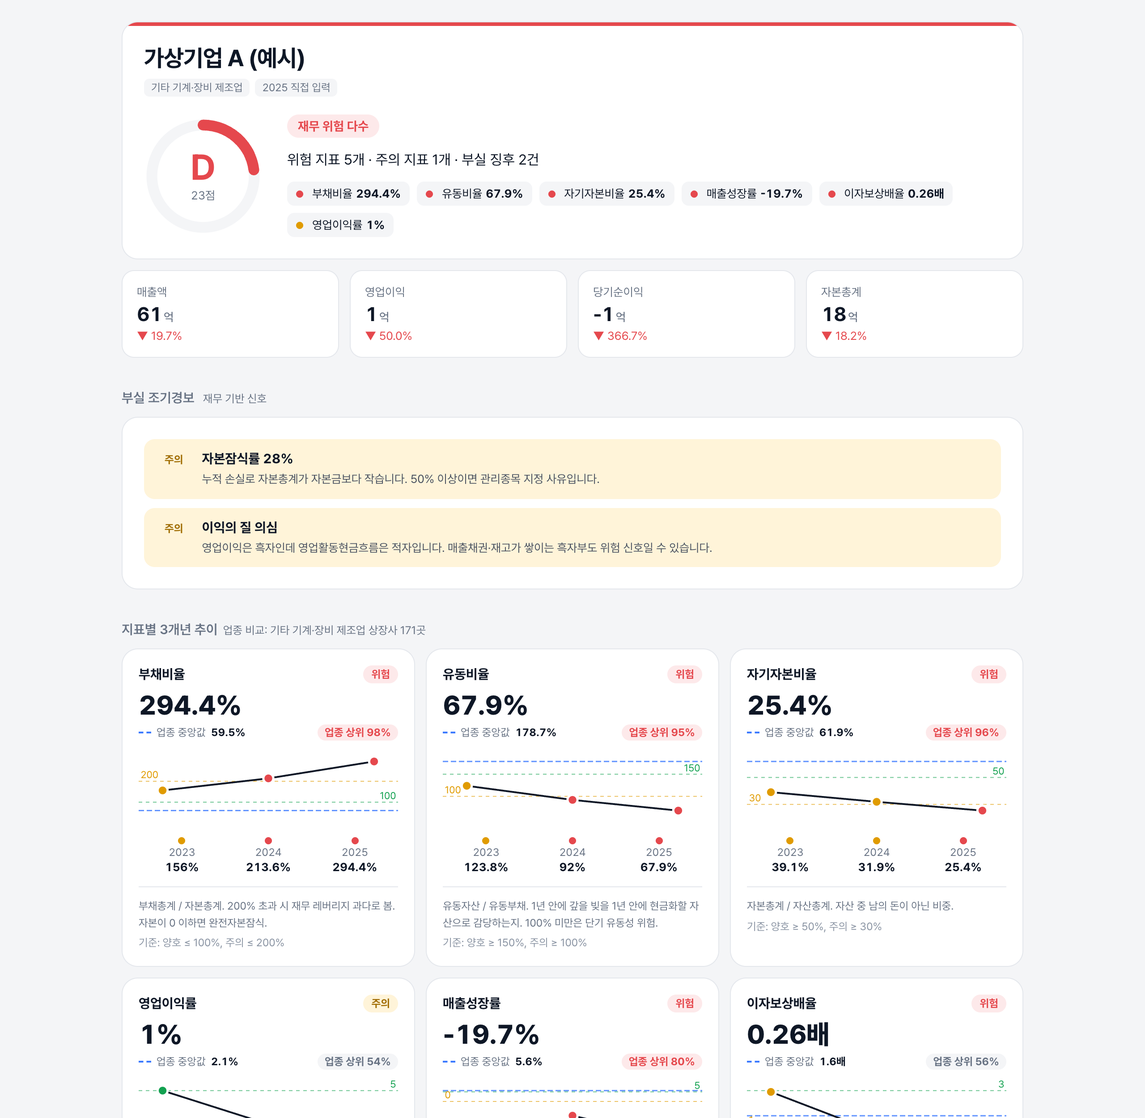
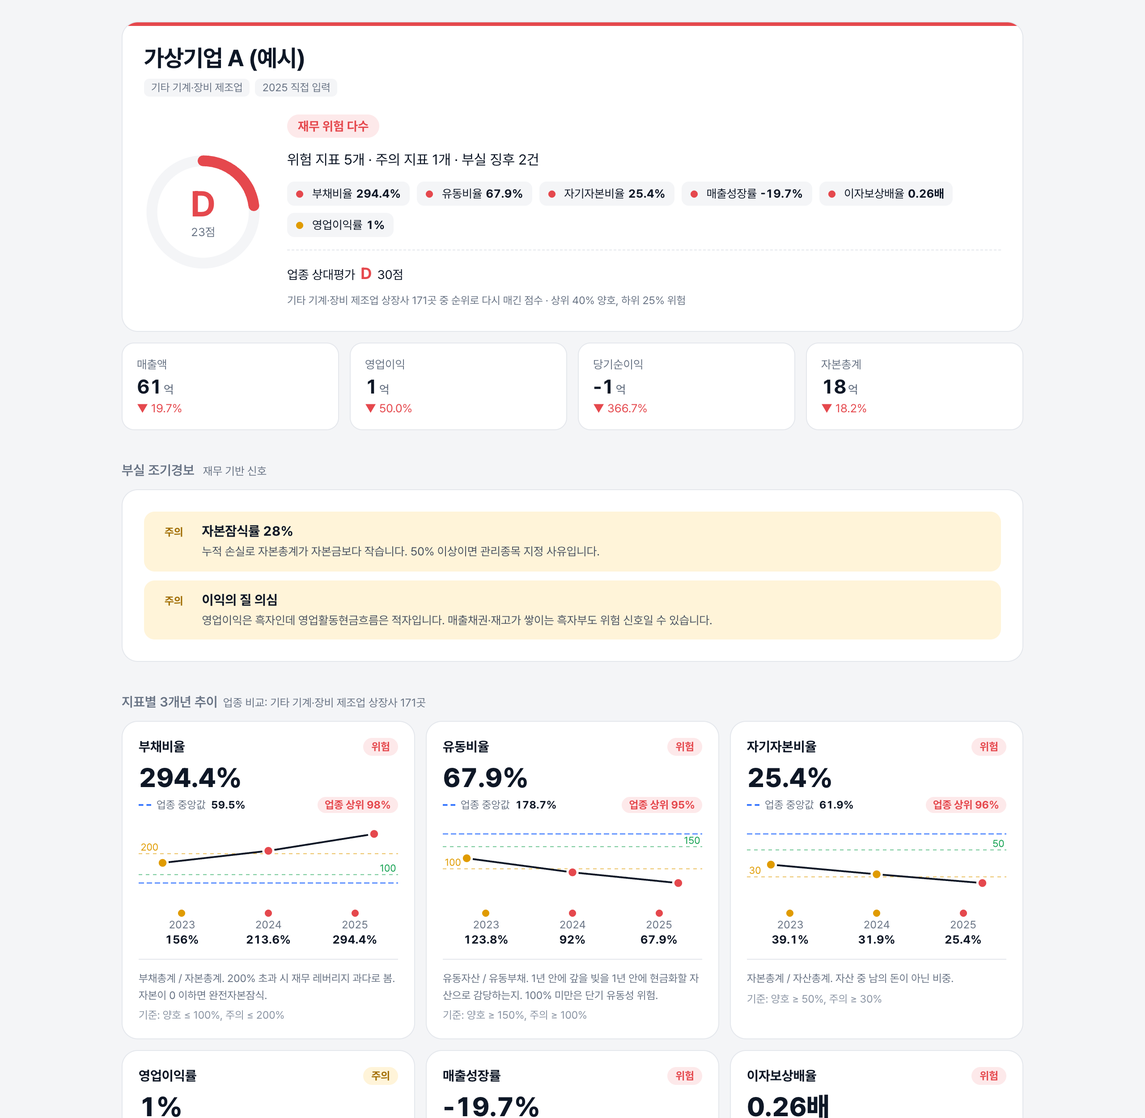
feat: 5-year trend, industry-relative grade, print/PDF report
Join the report from 3 years earlier to show 5 fiscal years; zombie check
still uses the latest 3. Re-grade ratios by industry rank (top 40% good,
bottom 25% bad) for industries with 10+ listed peers. Add print styles
and a PDF button.

diff --git a/app/page.tsx b/app/page.tsx
@@ -1,7 +1,7 @@
 "use client";
 
 import { useEffect, useMemo, useState } from "react";
-import { ratios, isZombie, score, type Accounts, type Ratio, type Level } from "@/lib/ratios";
+import { ratios, isZombie, score, peerLevel, type Accounts, type Ratio, type Level } from "@/lib/ratios";
 import { signals, type Audit, type HolderChange, type Signal } from "@/lib/signals";
 import { KSIC } from "@/lib/ksic";
 
@@ -22,7 +22,11 @@ const fmt = (v: number | null, unit: string) =>
 const eok = (v: number | null) => (v === null ? "–" : Math.round(v / 1e8).toLocaleString("ko-KR"));
 const money = (v: number | null): [string, string] =>
   v === null ? ["–", ""] : Math.abs(v) >= 1e12 ? [(v / 1e12).toLocaleString("ko-KR", { maximumFractionDigits: 1 }), "조"] : [eok(v), "억"];
-const yoy = (s: (number | null)[]) => (s[1] === null || s[2] === null || s[1] === 0 ? null : ((s[2] - s[1]) / Math.abs(s[1])) * 100);
+const last = <T,>(s: T[]) => s[s.length - 1];
+const yoy = (s: (number | null)[]) => {
+  const [p, c] = [s[s.length - 2] ?? null, last(s)];
+  return p === null || c === null || p === 0 ? null : ((c - p) / Math.abs(p)) * 100;
+};
 
 // Peer stats store debt-free ICR as 9999 (JSON has no Infinity); match that here.
 const CAP = 9999;
@@ -104,7 +108,7 @@ export default function Page() {
           {home && (
             <>
               <p className="eyebrow">기업 재무건전성 · 부실 조기경보</p>
-              <h1>재무제표 속 위험 신호,<br />3년 추이로 한눈에.</h1>
+              <h1>재무제표 속 위험 신호,<br />5년 추이로 한눈에.</h1>
               <p className="lead">
                 6개 핵심 비율을 <b>업종 평균</b>과 비교하고, 감사의견·자본잠식·최대주주 변경 같은 <b>부실 징후</b>와 <b>한계기업</b> 여부를 함께 점검합니다.
               </p>
@@ -187,9 +191,15 @@ function Report({ r, peers }: { r: Result; peers: Peers | null }) {
   const sig = signals(r.accounts, r.audit, r.holders, r.year);
   const ksic = r.ksic ?? (r.code ? peers?.byCorp[r.code] : undefined);
   const group = ksic ? peers?.ind[ksic] : undefined;
-  const years = [r.year - 2, r.year - 1, r.year];
-  const flagged = rs.filter((x) => x.levels[2] === "bad");
-  const warned = rs.filter((x) => x.levels[2] === "warn");
+  const n = r.accounts.assets.length;
+  const L = n - 1;
+  const years = r.accounts.assets.map((_, i) => r.year - L + i);
+  const flagged = rs.filter((x) => x.levels[L] === "bad");
+  const warned = rs.filter((x) => x.levels[L] === "warn");
+  // Same score, but each ratio graded by its rank in the industry instead of fixed cut-offs.
+  // Missing rank (e.g. 자본잠식 has no debt ratio) keeps the absolute level.
+  const tops = rs.map((x) => (group ? topPct(group.r[x.key] ?? [], x.values[L], x.higher) : null));
+  const peerSc = group && group.n >= 10 ? score(rs, rs.map((x, i) => (tops[i] === null ? x.levels[L] : peerLevel(tops[i]!)))) : null;
   const badSig = sig.filter((s) => s.level === "bad").length;
   const level: Level = zombie || flagged.length >= 2 || badSig ? "bad" : flagged.length || warned.length || sig.length ? "warn" : "good";
   const title = zombie ? "한계기업 신호" : badSig ? "부실 징후 감지" : level === "bad" ? "재무 위험 다수" : level === "warn" ? "일부 주의 필요" : "재무 상태 양호";
@@ -217,9 +227,12 @@ function Report({ r, peers }: { r: Result; peers: Peers | null }) {
             </p>
           </div>
           {r.fs !== "MANUAL" && (
+            <span className="links">
+            <button className="print" onClick={() => print()}>PDF 저장</button>
             <a className="dart" href={`https://dart.fss.or.kr/dsab007/main.do?option=corp&textCrpNm=${encodeURIComponent(r.name)}`} target="_blank" rel="noreferrer">
               DART 원문 ↗
             </a>
+            </span>
           )}
         </div>
         <div className="body">
@@ -235,9 +248,15 @@ function Report({ r, peers }: { r: Result; peers: Peers | null }) {
             </p>
             <ul className="flags">
               {[...flagged, ...warned].map((x) => (
-                <li key={x.key}><i className={`dot ${x.levels[2]}`} />{x.label} <b>{show(x, 2)}</b></li>
+                <li key={x.key}><i className={`dot ${x.levels[L]}`} />{x.label} <b>{show(x, L)}</b></li>
               ))}
             </ul>
+            {peerSc && (
+              <p className="pgrade">
+                업종 상대평가 <b className={`g${peerSc.grade}`}>{peerSc.grade}</b> {peerSc.score}점
+                <small>{KSIC[ksic!] ?? ksic} 상장사 {group!.n}곳 중 순위로 다시 매긴 점수 · 상위 40% 양호, 하위 25% 위험</small>
+              </p>
+            )}
           </div>
         </div>
       </div>
@@ -248,7 +267,7 @@ function Report({ r, peers }: { r: Result; peers: Peers | null }) {
           return (
             <div key={k} className="kpi">
               <span>{k}</span>
-              <b>{money(v[2])[0]}<small>{money(v[2])[1]}</small></b>
+              <b>{money(last(v))[0]}<small>{money(last(v))[1]}</small></b>
               <em className={d === null ? "" : d >= 0 ? "up" : "down"}>{d === null ? "–" : `${d >= 0 ? "▲" : "▼"} ${Math.abs(d).toFixed(1)}%`}</em>
             </div>
           );
@@ -259,10 +278,10 @@ function Report({ r, peers }: { r: Result; peers: Peers | null }) {
       <Signals list={sig} audit={r.audit} manual={r.fs === "MANUAL"} />
 
       <h3 className="sec">
-        지표별 3개년 추이
+        지표별 {n}개년 추이
         {group && <small>업종 비교: {KSIC[ksic!] ?? ksic} 상장사 {group.n}곳</small>}
       </h3>
-      <div className="grid">{rs.map((x) => <RatioCard key={x.key} r={x} years={years} peer={group?.r[x.key]} />)}</div>
+      <div className="grid">{rs.map((x, i) => <RatioCard key={x.key} r={x} years={years} peer={group?.r[x.key]} top={tops[i]} />)}</div>
 
       <h3 className="sec">주요 계정 <small>단위: 억원</small></h3>
       <div className="card flush">
@@ -308,7 +327,7 @@ function Gauge({ s, grade, level }: { s: number | null; grade: string; level: Le
   );
 }
 
-// 3-point line with threshold guides (+ industry median); the y-domain includes guides so they stay visible.
+// N-point line with threshold guides (+ industry median); the y-domain includes guides so they stay visible.
 function Spark({ r, med }: { r: Ratio; med: number | null }) {
   const W = 260, H = 84, P = 10;
   const vals = r.values.map((v) => (v === null ? null : Number.isFinite(v) ? v : null));
@@ -318,7 +337,7 @@ function Spark({ r, med }: { r: Ratio; med: number | null }) {
   let lo = Math.min(...nums), hi = Math.max(...nums);
   const pad = (hi - lo || 1) * 0.15; lo -= pad; hi += pad;
   const y = (v: number) => P + (1 - (v - lo) / (hi - lo)) * (H - 2 * P);
-  const x = (i: number) => 24 + i * ((W - 48) / 2);
+  const x = (i: number) => 24 + i * ((W - 48) / Math.max(1, r.values.length - 1));
   const pts = r.values.map((v, i) => (v === null ? null : [x(i), v === Infinity ? P : y(v)] as const));
   const line = pts.filter(Boolean).map((p) => p!.join(",")).join(" ");
   return (
@@ -338,16 +357,16 @@ function Spark({ r, med }: { r: Ratio; med: number | null }) {
 // Debt ratio is undefined when equity <= 0; say why instead of a dash.
 const show = (r: Ratio, i: number) => (r.key === "debt" && r.values[i] === null && r.levels[i] === "bad" ? "자본잠식" : fmt(r.values[i], r.unit));
 
-function RatioCard({ r, years, peer }: { r: Ratio; years: number[]; peer?: number[] }) {
+function RatioCard({ r, years, peer, top }: { r: Ratio; years: number[]; peer?: number[]; top: number | null }) {
   const med = peer ? median(peer) : null;
-  const top = peer ? topPct(peer, r.values[2], r.higher) : null;
+  const L = r.values.length - 1;
   return (
     <article className="ratio">
       <header>
         <h4>{r.label}</h4>
-        <span className={`pill sm ${r.levels[2]}`}>{LABEL[r.levels[2]]}</span>
+        <span className={`pill sm ${r.levels[L]}`}>{LABEL[r.levels[L]]}</span>
       </header>
-      <div className="big">{show(r, 2)}</div>
+      <div className="big">{show(r, L)}</div>
       {med !== null && (
         <p className="peer">
           <i />업종 중앙값 <b>{fmt(med >= CAP ? Infinity : med, r.unit)}</b>
@@ -355,7 +374,7 @@ function RatioCard({ r, years, peer }: { r: Ratio; years: number[]; peer?: numbe
         </p>
       )}
       <Spark r={r} med={med} />
-      <div className="years">{years.map((y, i) => <span key={y}><i className={`dot ${r.levels[i]}`} />{y}<b>{show(r, i)}</b></span>)}</div>
+      <div className="years" style={{ gridTemplateColumns: `repeat(${years.length}, 1fr)` }}>{years.map((y, i) => <span key={y}><i className={`dot ${r.levels[i]}`} />{y}<b>{show(r, i)}</b></span>)}</div>
       <p className="hint">{r.hint} <em>기준: 양호 {r.higher ? "≥" : "≤"} {r.good}{r.unit}, 주의 {r.higher ? "≥" : "≤"} {r.warn}{r.unit}</em></p>
     </article>
   );
@@ -478,8 +497,8 @@ function FeaturedLists({ f, corps, onPick }: { f: Featured; corps: Corp[]; onPic
 function HowTo() {
   const steps = [
     ["01", "공시 수집", "DART Open API로 최근 사업보고서의 재무제표, 감사의견, 최대주주 변동 내역을 가져옵니다."],
-    ["02", "비율 산출", "안정성·유동성·수익성·성장성·이자상환능력 6개 지표를 3개년으로 계산합니다."],
-    ["03", "업종 비교", "상장사 전체를 KSIC 업종별로 묶어 중앙값과 업종 내 순위를 보여줍니다."],
+    ["02", "비율 산출", "안정성·유동성·수익성·성장성·이자상환능력 6개 지표를 최대 5개년으로 계산합니다."],
+    ["03", "업종 비교", "상장사 전체를 KSIC 업종별로 묶어 중앙값, 업종 내 순위, 업종 상대평가 등급을 보여줍니다."],
     ["04", "부실 조기경보", "비적정 감사의견, 자본잠식, 연속 영업손실, 흑자부도 신호, 한계기업을 표시합니다."],
   ];
   return (

diff --git a/lib/ratios.ts b/lib/ratios.ts
@@ -9,7 +9,7 @@ export type Row = {
   bfefrmtrm_amount?: string;
 };
 
-// Index 0 = oldest year, 2 = latest year.
+// Index 0 = oldest year, last = latest year. One report gives 3 years; the API route joins two reports for 5.
 export type Series = (number | null)[];
 
 const num = (s?: string): number | null => {
@@ -66,7 +66,7 @@ function grade(v: number | null, good: number, warn: number, higherIsBetter = tr
 }
 
 export function ratios(a: Accounts): Ratio[] {
-  const y = [0, 1, 2];
+  const y = a.assets.map((_, i) => i);
   const debt = y.map((i) => (a.equity[i] !== null && a.equity[i]! <= 0 ? null : div(a.liabilities[i], a.equity[i])));
   const current = y.map((i) => div(a.currentAssets[i], a.currentLiabilities[i]));
   const equityRatio = y.map((i) => div(a.equity[i], a.assets[i]));
@@ -92,9 +92,9 @@ export function ratios(a: Accounts): Ratio[] {
 
 const sub = (a: number | null, b: number | null) => (a === null || b === null ? null : a - b);
 
-// 한국은행 기준 한계기업: 이자보상배율 3년 연속 1 미만.
+// 한국은행 기준 한계기업: 이자보상배율 3년 연속 1 미만 (최근 3년).
 export function isZombie(rs: Ratio[]): boolean | null {
-  const icr = rs.find((r) => r.key === "icr")!.values;
+  const icr = rs.find((r) => r.key === "icr")!.values.slice(-3);
   if (icr.some((v) => v === null)) return null;
   return icr.every((v) => v! < 1);
 }
@@ -102,10 +102,14 @@ export function isZombie(rs: Ratio[]): boolean | null {
 const POINTS: Record<Level, number> = { good: 100, warn: 60, bad: 15, na: 0 };
 
 // Simple self-made health score over the latest year, not a credit rating.
-export function score(rs: Ratio[]): { score: number; grade: string } | null {
-  const ls = rs.map((r) => r.levels[2]).filter((l) => l !== "na");
+// `latest` swaps in other levels for the same ratios, e.g. industry-relative ones.
+export function score(rs: Ratio[], latest = rs.map((r) => r.levels.at(-1)!)): { score: number; grade: string } | null {
+  const ls = latest.filter((l) => l !== "na");
   if (!ls.length) return null;
   let s = Math.round(ls.reduce((t, l) => t + POINTS[l], 0) / ls.length);
   if (isZombie(rs)) s = Math.min(s, 30);
   return { score: s, grade: s >= 85 ? "A" : s >= 70 ? "B" : s >= 50 ? "C" : "D" };
 }
+
+// Industry-relative level from "상위 X%": top 40% good, bottom 25% bad.
+export const peerLevel = (top: number): Level => (top <= 40 ? "good" : top <= 75 ? "warn" : "bad");

diff --git a/lib/signals.ts b/lib/signals.ts
@@ -19,7 +19,7 @@ export function controlChanges(list: HolderChange[], from: number): number {
 
 export function signals(a: Accounts, audit: Audit, holders: HolderChange[], year: number): Signal[] {
   const out: Signal[] = [];
-  const last = (s: (number | null)[]) => s[2];
+  const last = (s: (number | null)[]) => s.at(-1) ?? null;
 
   if (audit && /한정|부적정|거절/.test(audit.opinion))
     out.push({ level: "bad", title: `감사의견 ${audit.opinion}`, detail: `${audit.auditor}. 비적정 감사의견은 재무제표 신뢰성 문제이자 상장 유지 요건 위반 사유입니다.` });
@@ -34,14 +34,14 @@ export function signals(a: Accounts, audit: Audit, holders: HolderChange[], year
   }
 
   let losses = 0;
-  for (let i = 2; i >= 0 && (a.operatingIncome[i] ?? 0) < 0; i--) losses++;
+  for (let i = a.revenue.length - 1; i >= 0 && (a.operatingIncome[i] ?? 0) < 0; i--) losses++;
   if (losses >= 2) out.push({ level: losses >= 3 ? "bad" : "warn", title: `${losses}년 연속 영업손실`, detail: "본업에서 손실이 이어지고 있습니다." });
 
   const oi = last(a.operatingIncome), ocf = last(a.operatingCashFlow);
   if (oi !== null && ocf !== null && oi > 0 && ocf < 0)
     out.push({ level: "warn", title: "이익의 질 의심", detail: "영업이익은 흑자인데 영업활동현금흐름은 적자입니다. 매출채권·재고가 쌓이는 흑자부도 위험 신호일 수 있습니다." });
 
-  const [r1, r2] = [a.revenue[1], a.revenue[2]];
+  const [r1, r2] = [a.revenue.at(-2) ?? null, a.revenue.at(-1) ?? null];
   if (r1 && r2 !== null && r1 > 0 && (r2 - r1) / r1 <= -0.3)
     out.push({ level: "warn", title: `매출 급감 ${(((r2 - r1) / r1) * 100).toFixed(0)}%`, detail: "전년 대비 매출이 30% 이상 줄었습니다." });
 

diff --git a/app/api/fin/route.ts b/app/api/fin/route.ts
@@ -1,5 +1,5 @@
 import { extract } from "@/lib/ratios";
-import { dart, latestStatements, DartError } from "@/lib/dart";
+import { dart, latestStatements, statements, DartError } from "@/lib/dart";
 import type { Audit, HolderChange } from "@/lib/signals";
 
 const KEY = process.env.DART_API_KEY;
@@ -26,8 +26,18 @@ export async function GET(req: Request) {
     const st = await latestStatements(corp, KEY, CACHE);
     if (!st) return Response.json({ error: "최근 2년 사업보고서 재무제표 없음 (상장폐지·합병·신규상장 등)" }, { status: 404 });
     // Non-financial signals are a bonus: a failure there must not hide the statements.
-    const [a, h] = await Promise.all([audit(corp, st.year).catch(() => null), holders(corp, st.year).catch(() => [])]);
-    return Response.json({ year: st.year, fs: st.fs, accounts: extract(st.rows), audit: a, holders: h });
+    // The report from 3 years earlier adds 2 more fiscal years (5 in total); its oldest year is dropped.
+    const [a, h, old] = await Promise.all([
+      audit(corp, st.year).catch(() => null),
+      holders(corp, st.year).catch(() => []),
+      statements(corp, st.year - 3, st.fs, KEY, CACHE).catch(() => null),
+    ]);
+    const acc = extract(st.rows);
+    if (old) {
+      const prev = extract(old);
+      for (const k of Object.keys(acc) as (keyof typeof acc)[]) acc[k] = [...prev[k].slice(1), ...acc[k]];
+    }
+    return Response.json({ year: st.year, fs: st.fs, accounts: acc, audit: a, holders: h });
   } catch (e) {
     if (e instanceof DartError) return Response.json({ error: e.message }, { status: 502 });
     throw e;

diff --git a/lib/ratios.test.ts b/lib/ratios.test.ts
@@ -1,5 +1,5 @@
 import assert from "node:assert/strict";
-import { extract, ratios, isZombie, score, type Row } from "./ratios.ts";
+import { extract, ratios, isZombie, score, peerLevel, type Row } from "./ratios.ts";
 
 const row = (sj_div: string, account_id: string, account_nm: string, b: string, f: string, t: string): Row => ({
   sj_div, account_id, account_nm, bfefrmtrm_amount: b, frmtrm_amount: f, thstrm_amount: t,
@@ -34,5 +34,19 @@ assert.equal(isZombie(noDebt), false);
 assert.equal(score(r)!.grade, "D"); // zombie caps score
 assert.equal(score(noDebt)!.score, 100);
 assert.equal(r.filter((x) => x.good === undefined).length, 0);
+
+// 5 years (two reports joined): zombie looks at the latest 3 only, growth at each previous year.
+const five = { ...extract(rows) };
+for (const k of Object.keys(five) as (keyof typeof five)[]) five[k] = [five[k][0], five[k][1], ...five[k]];
+const r5 = ratios(five);
+assert.equal(r5[0].values.length, 5);
+assert.equal(isZombie(ratios({ ...five, interestPaid: [1, 1, 0, 0, 0], operatingIncome: [-1, -1, 1, 1, 1] })), false);
+assert.equal(isZombie(ratios({ ...five, interestPaid: [0, 0, 100, 100, 100] })), true);
+
+// Industry-relative levels feed the same score.
+assert.equal(peerLevel(10), "good");
+assert.equal(peerLevel(60), "warn");
+assert.equal(peerLevel(90), "bad");
+assert.equal(score(noDebt, ["warn"])!.score, 60);
 
 console.log("ratios ok");

diff --git a/app/globals.css b/app/globals.css
@@ -201,3 +201,22 @@ footer { color: var(--sub); font-size: 12px; margin-top: 48px; line-height: 1.7;
 .col small { font-size: 12px; color: var(--sub); }
 .col .mt b { font-size: 14px; font-variant-numeric: tabular-nums; }
 @media (max-width: 900px) { .cols { grid-template-columns: 1fr; } }
+
+/* Industry-relative grade + print */
+.links { display: flex; gap: 14px; align-items: center; }
+.print { white-space: nowrap; font: inherit; font-size: 13px; color: var(--sub); background: none; border: 1px solid var(--line); border-radius: 8px; padding: 4px 10px; cursor: pointer; }
+.pgrade { display: flex; flex-wrap: wrap; align-items: baseline; gap: 6px; margin: 14px 0 0 !important; padding-top: 12px; border-top: 1px dashed var(--line); font-size: 14px; }
+.pgrade b { font-size: 18px; }
+.pgrade .gA, .pgrade .gB { color: var(--good); }
+.pgrade .gC { color: var(--warn); }
+.pgrade .gD { color: var(--bad); }
+.pgrade small { flex-basis: 100%; color: var(--sub); font-size: 12px; }
+@media print {
+  @page { margin: 12mm; }
+  body { background: #fff; }
+  .top, .links, .featured, .how { display: none !important; }
+  main.wrap { padding-top: 0 !important; }
+  .card, .ratio, .kpi { break-inside: avoid; box-shadow: none !important; }
+  .grid { grid-template-columns: repeat(2, 1fr); }
+  * { -webkit-print-color-adjust: exact; print-color-adjust: exact; }
+}

diff --git a/lib/dart.ts b/lib/dart.ts
@@ -18,10 +18,17 @@ export async function latestStatements(corp: string, key: string, init?: Request
   const now = new Date().getFullYear();
   for (const year of [now - 1, now - 2]) {
     for (const fs of ["CFS", "OFS"] as const) {
-      const j = await dart("fnlttSinglAcntAll.json", { corp_code: corp, bsns_year: String(year), reprt_code: "11011", fs_div: fs }, key, init);
-      if (j.status === "000" && j.list?.length) return { year, fs, rows: j.list as unknown as Row[] };
-      if (j.status !== "013") throw new DartError(`DART ${j.status}: ${j.message}`);
+      const rows = await statements(corp, year, fs, key, init);
+      if (rows) return { year, fs, rows };
     }
   }
+  return null;
+}
+
+// One annual report (3 fiscal years). null = not filed (status 013).
+export async function statements(corp: string, year: number, fs: "CFS" | "OFS", key: string, init?: RequestInit) {
+  const j = await dart("fnlttSinglAcntAll.json", { corp_code: corp, bsns_year: String(year), reprt_code: "11011", fs_div: fs }, key, init);
+  if (j.status === "000" && j.list?.length) return j.list as unknown as Row[];
+  if (j.status !== "013") throw new DartError(`DART ${j.status}: ${j.message}`);
   return null;
 }

diff --git a/scripts/peers.ts b/scripts/peers.ts
@@ -31,8 +31,8 @@ async function one(code: string): Promise<Cached> {
   const rs = acc ? ratios(acc) : null;
   const out: Cached = {
     ksic,
-    v: rs ? Object.fromEntries(rs.map((r) => [r.key, r.values[2]])) : null,
-    rev: acc?.revenue[2] ?? null,
+    v: rs ? Object.fromEntries(rs.map((r) => [r.key, r.values.at(-1)!])) : null,
+    rev: acc?.revenue.at(-1) ?? null,
     grade: rs ? (score(rs)?.grade ?? null) : null,
     zombie: rs ? isZombie(rs) : null,
   };

diff --git a/README.md b/README.md
@@ -22,13 +22,14 @@ RADAR는 이 과정을 한 번의 검색으로 묶었습니다. 공시 의무가
 
 | | 기능 | 설명 |
 |---|---|---|
-| 📊 | **6개 핵심 비율 · 3개년 추이** | 부채비율, 유동비율, 자기자본비율, 영업이익률, 매출성장률, 이자보상배율 |
+| 📊 | **6개 핵심 비율 · 5개년 추이** | 부채비율, 유동비율, 자기자본비율, 영업이익률, 매출성장률, 이자보상배율 |
 | 🏭 | **업종 비교** | 상장사 2,578곳을 KSIC 61개 업종으로 묶어 업종 중앙값과 "업종 상위 X%" 표시 |
+| ⚖ | **업종 상대평가 등급** | 고정 기준 대신 업종 내 순위로 다시 매긴 등급 (상위 40% 양호, 하위 25% 위험, 표본 10곳 이상) |
 | 🚨 | **부실 조기경보** | 비적정 감사의견, 계속기업 불확실성, 자본잠식률, 연속 영업손실, 흑자부도 신호, 매출 급감, 최대주주 잦은 변경 |
 | 🧟 | **한계기업 판별** | 이자보상배율 3년 연속 1 미만 (한국은행 기준) |
 | ✍ | **비상장 직접 입력** | 재무 숫자 10개만 넣으면 같은 진단. 입력값은 브라우저 밖으로 나가지 않음 |
 | ⭐ | **주목할 기업** | 한계기업 신호 · 재무 위험 대형사 · 재무 우량 대형사를 매출 규모순으로 |
-| 🔗 | **공유 링크** | `?c=<corp_code>` 로 특정 기업 결과를 바로 열기 |
+| 🔗 | **공유 링크 · PDF** | `?c=<corp_code>` 로 특정 기업 결과를 바로 열기, 진단 결과를 보고서 형태로 인쇄·PDF 저장 |
 
 ## 화면
 
@@ -55,12 +56,14 @@ RADAR는 이 과정을 한 번의 검색으로 묶었습니다. 공시 의무가
 | 이자보상배율 | 영업이익 / 이자지급액 | ≥ 3배 | ≥ 1배 | < 1배 |
 
 건전성 점수(A~D)는 최근 연도 지표의 신호등을 평균한 **자체 산식**이며, 한계기업이면 30점으로 상한을 둡니다.
+**업종 상대평가**는 같은 산식에 각 지표의 업종 내 순위(상위 40% 이내 양호, 하위 25% 위험)를 넣어 계산합니다.
 
 ## 구조
 
 ```
 브라우저 ──▶ /api/fin (Route Handler) ──▶ DART Open API
   │              ├ fnlttSinglAcntAll   재무제표 (연결 → 별도, 최근연도 → 전년 순으로 폴백)
+  │              │                     + 3년 전 보고서를 이어 붙여 5개년
   │              ├ accnutAdtorNmNdAdtOpinion   감사의견
   │              └ hyslrChgSttus       최대주주 변동
   │
@@ -80,7 +83,8 @@ RADAR는 이 과정을 한 번의 검색으로 묶었습니다. 공시 의무가
 - **계정 매핑** — 회사마다 계정 ID가 다릅니다. 표준 XBRL ID(`ifrs-full_Assets` 등)로 먼저 찾고, 없으면 공백을 제거한 계정명으로 보완합니다.
 - **이자비용** — 손익계산서 이자비용은 주석에만 있는 경우가 많아 API로 안정적으로 얻기 어렵습니다. 대신 현금흐름표의 **이자지급액**을 썼고, 화면에 그 사실을 밝혔습니다.
 - **자본잠식** — 자본이 0 이하이면 부채비율이 계산되지 않습니다. 빈 값 대신 "자본잠식"으로 표시하고 위험으로 판정합니다.
-- **업종 특성** — 항공업은 업종 중앙값 부채비율이 800%에 이릅니다. 절대 기준만 쓰면 업종 전체가 위험으로 나오기 때문에 업종 내 상대 위치를 함께 보여줍니다.
+- **업종 특성** — 항공업은 업종 중앙값 부채비율이 800%에 이릅니다. 절대 기준만 쓰면 업종 전체가 위험으로 나오기 때문에 업종 내 상대 위치와 업종 상대평가 등급을 함께 보여줍니다.
+- **5개년 추이** — 사업보고서 1건에는 3개년만 있습니다. 3년 전 보고서를 하나 더 받아 앞의 2년을 이어 붙였습니다. 한계기업 판정은 그중 최근 3년만 봅니다.
 - **상장폐지 기업** — 회사 목록 파일에는 상장폐지 후에도 종목코드가 남아 있습니다. 최근 2년 안에 갱신된 회사만 남겼습니다.
 
 ## 실행
@@ -99,7 +103,7 @@ npm run dev
 - 금융업(은행·보험·증권)은 재무제표 구조가 달라 일부 지표가 계산되지 않고, 주목할 기업 목록에서도 제외했습니다.
 - 감사의견 API는 회사에 따라 값이 비어 있을 수 있어, 이 경우 "확인 불가"로 표시합니다.
 - 업종 표본이 작은 경우(예: 항공 운송업 5곳)에는 비교 결과를 조심해서 읽어야 합니다.
-- 다음 단계: 5개년 추이, 분기 보고서 반영, 업종별로 다른 판정 기준 적용.
+- 다음 단계: 분기 보고서 반영, 업종 상대평가를 주목할 기업 목록에도 적용.
 
 ---
 
